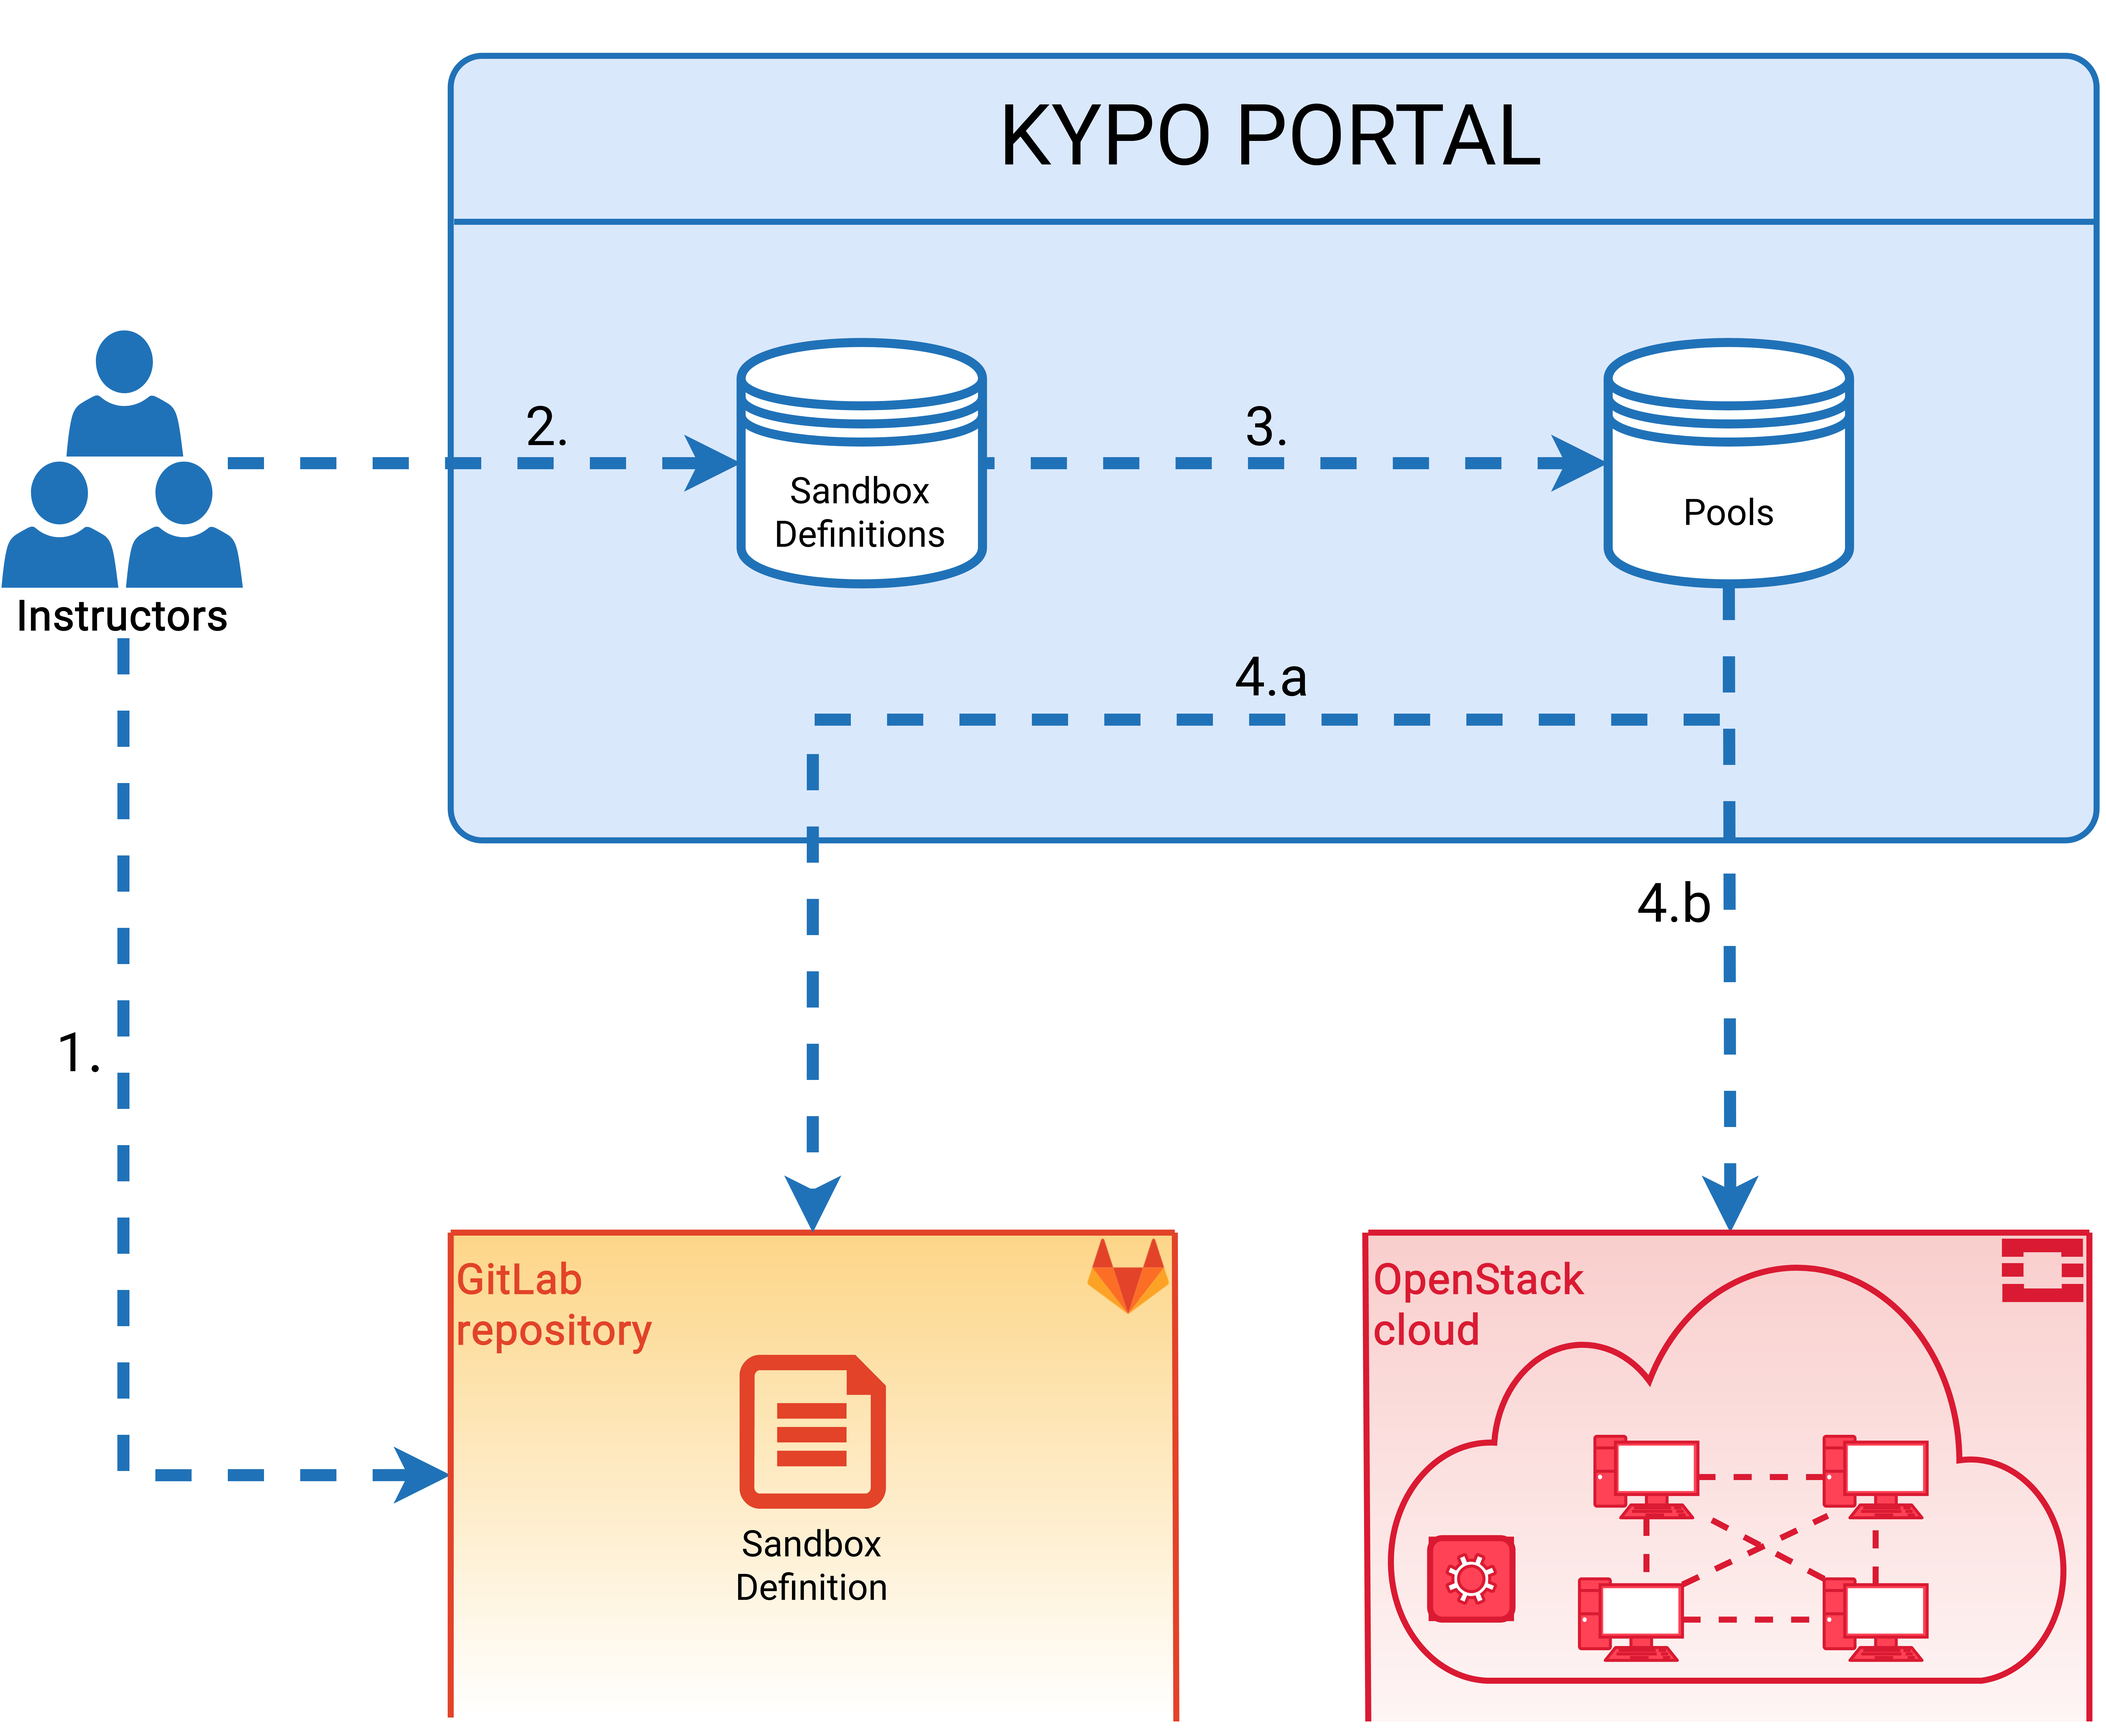
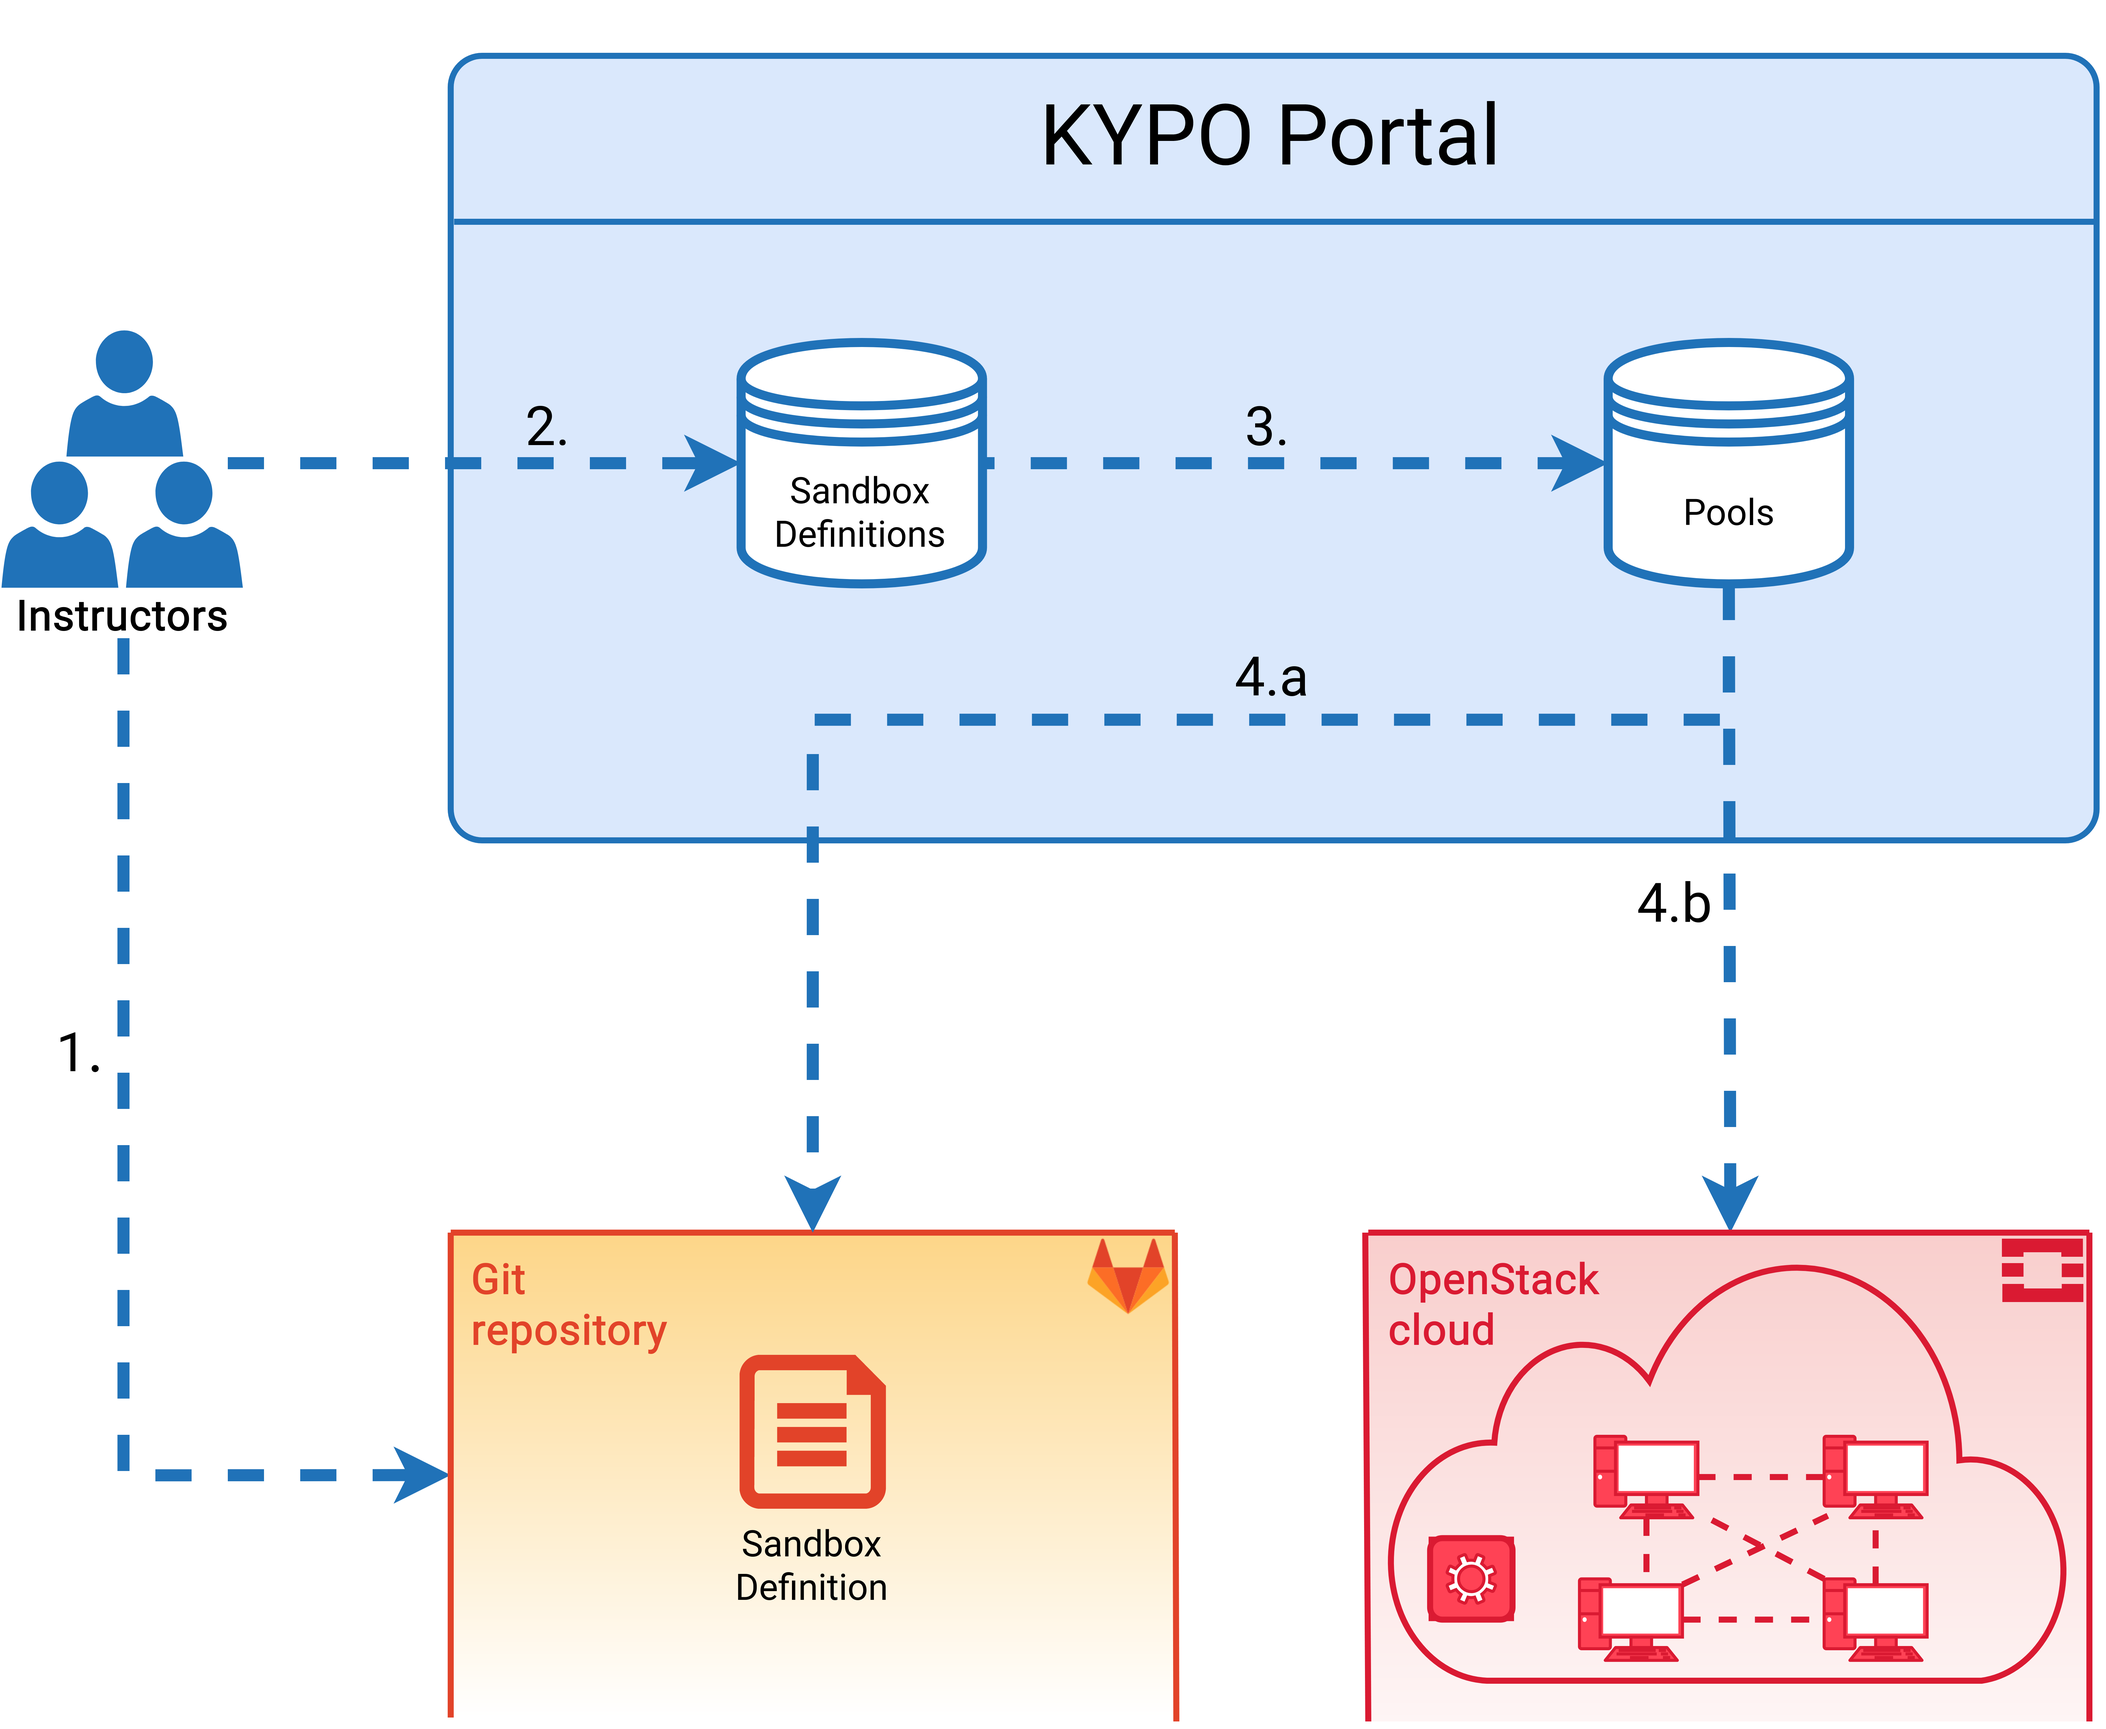
Updated images in basic concpets section and updated text of conceptual architecture.

Changed region(s): [[0.4685, 0.0625, 0.7183, 0.0937], [0.6559, 0.7185, 0.7496, 0.781], [0.2186, 0.7185, 0.3123, 0.781]]

diff --git a/docs/basic-concepts/conceptual-architecture.md b/docs/basic-concepts/conceptual-architecture.md
@@ -1,18 +1,17 @@
-## Architecture
 We have designed the KYPO cyber range as a cloud platform, which allows for achieving maximum flexibility, scalability, and cost-effectiveness. A lot of development effort has been dedicated to user interactions within KYPO CRP – that allows us to offer access through a web browser. The following conceptual architecture displays the key architectural constructs in the designed system.
 
 
 ![KYPO-portal-diagram](../img/basic-concepts/KYPO-portal-diagram.png)
 
 ### Cloud
-The engine of our environment is based on the cloud platform OpenStack. It controls large pools of compute, storage, and networking resources, all managed through APIs or a dashboard. It is mostly deployed as infrastructure-as-a-service in both public and private clouds where virtual servers and other resources are made available to users.
+The engine of the KYPO CRP environment is based on the cloud platform OpenStack. It controls large pools of compute, storage, and networking resources, all managed through APIs or a dashboard. It is mostly deployed as infrastructure-as-a-service in both public and private clouds where virtual servers and other resources are made available to users.
 
 ### KYPO Portal
 A graphical user interface for simple interaction of users with the KYPO CRP, easy access to sandboxes, and to the other functionalities. Represents the mediator between users and microservices that are running in the background. For more detailed information about microservices see [Platform Components](../../installation-guide/platform-components/). 
 
-### GitLab repositories 
-Repositories are used to store created sandbox definitions by users. Then they are loaded by respective microservice when needed to create a sandbox in the cloud. 
+### Git Repositories 
+Git repositories are used to store created sandbox definitions by users. Then they are loaded by respective microservice of KYPO Portal when needed to create a sandbox in the cloud. 
 
 ### Users  
-Users have different roles with a different scope of work within KYPO CRP. They can create and manage trainings, manage other users and they are also responsible for designing sandboxes via sandbox definitions. 
+Users have different roles with a different scope of work within KYPO CRP. They can create and manage trainings, manage other users and they are also responsible for designing sandboxes via sandbox definitions. Users can access machines in the sandboxes using Spice console or directly using SSH. 
 
